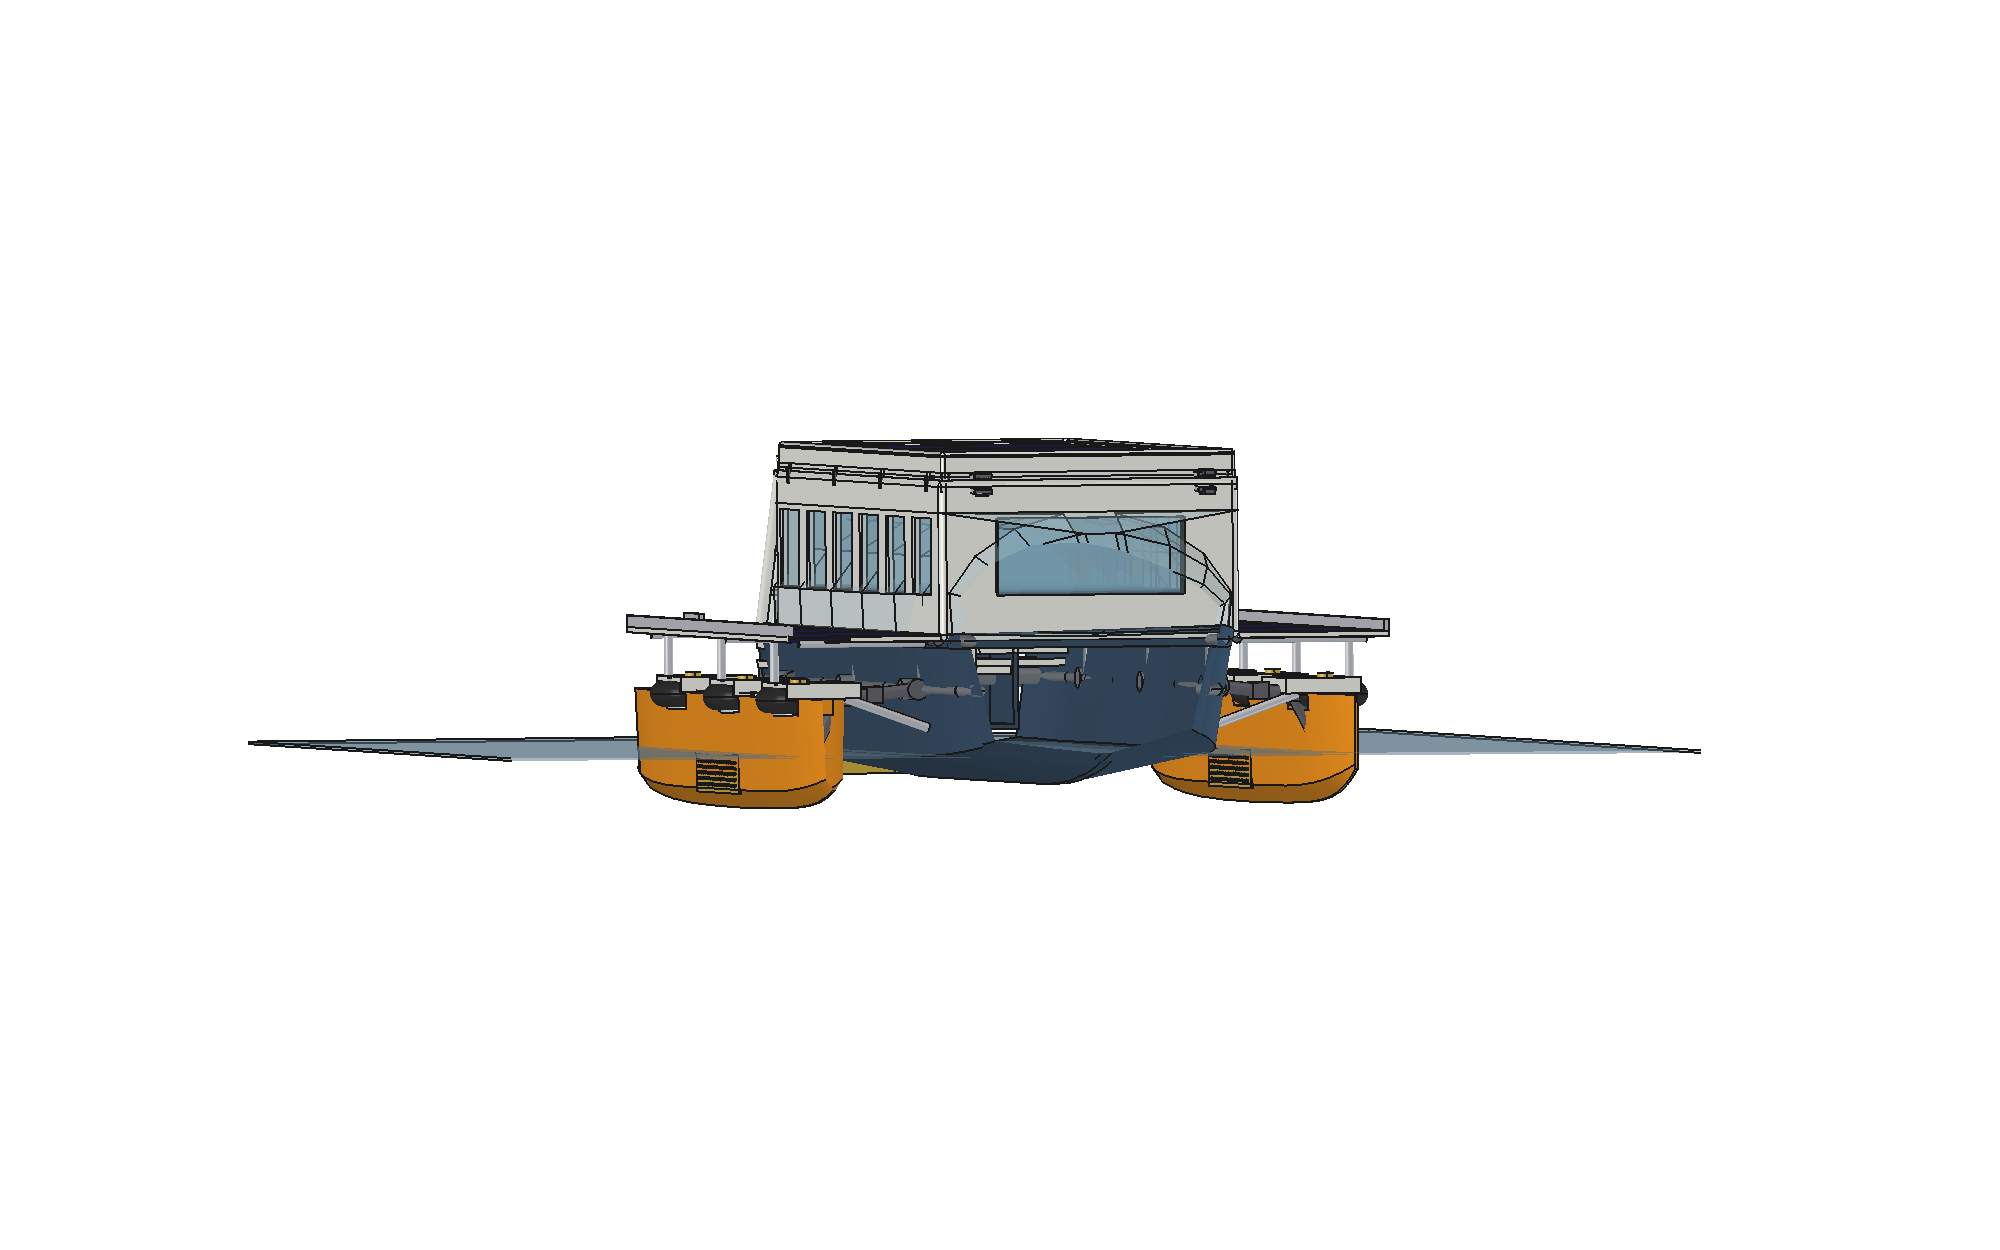
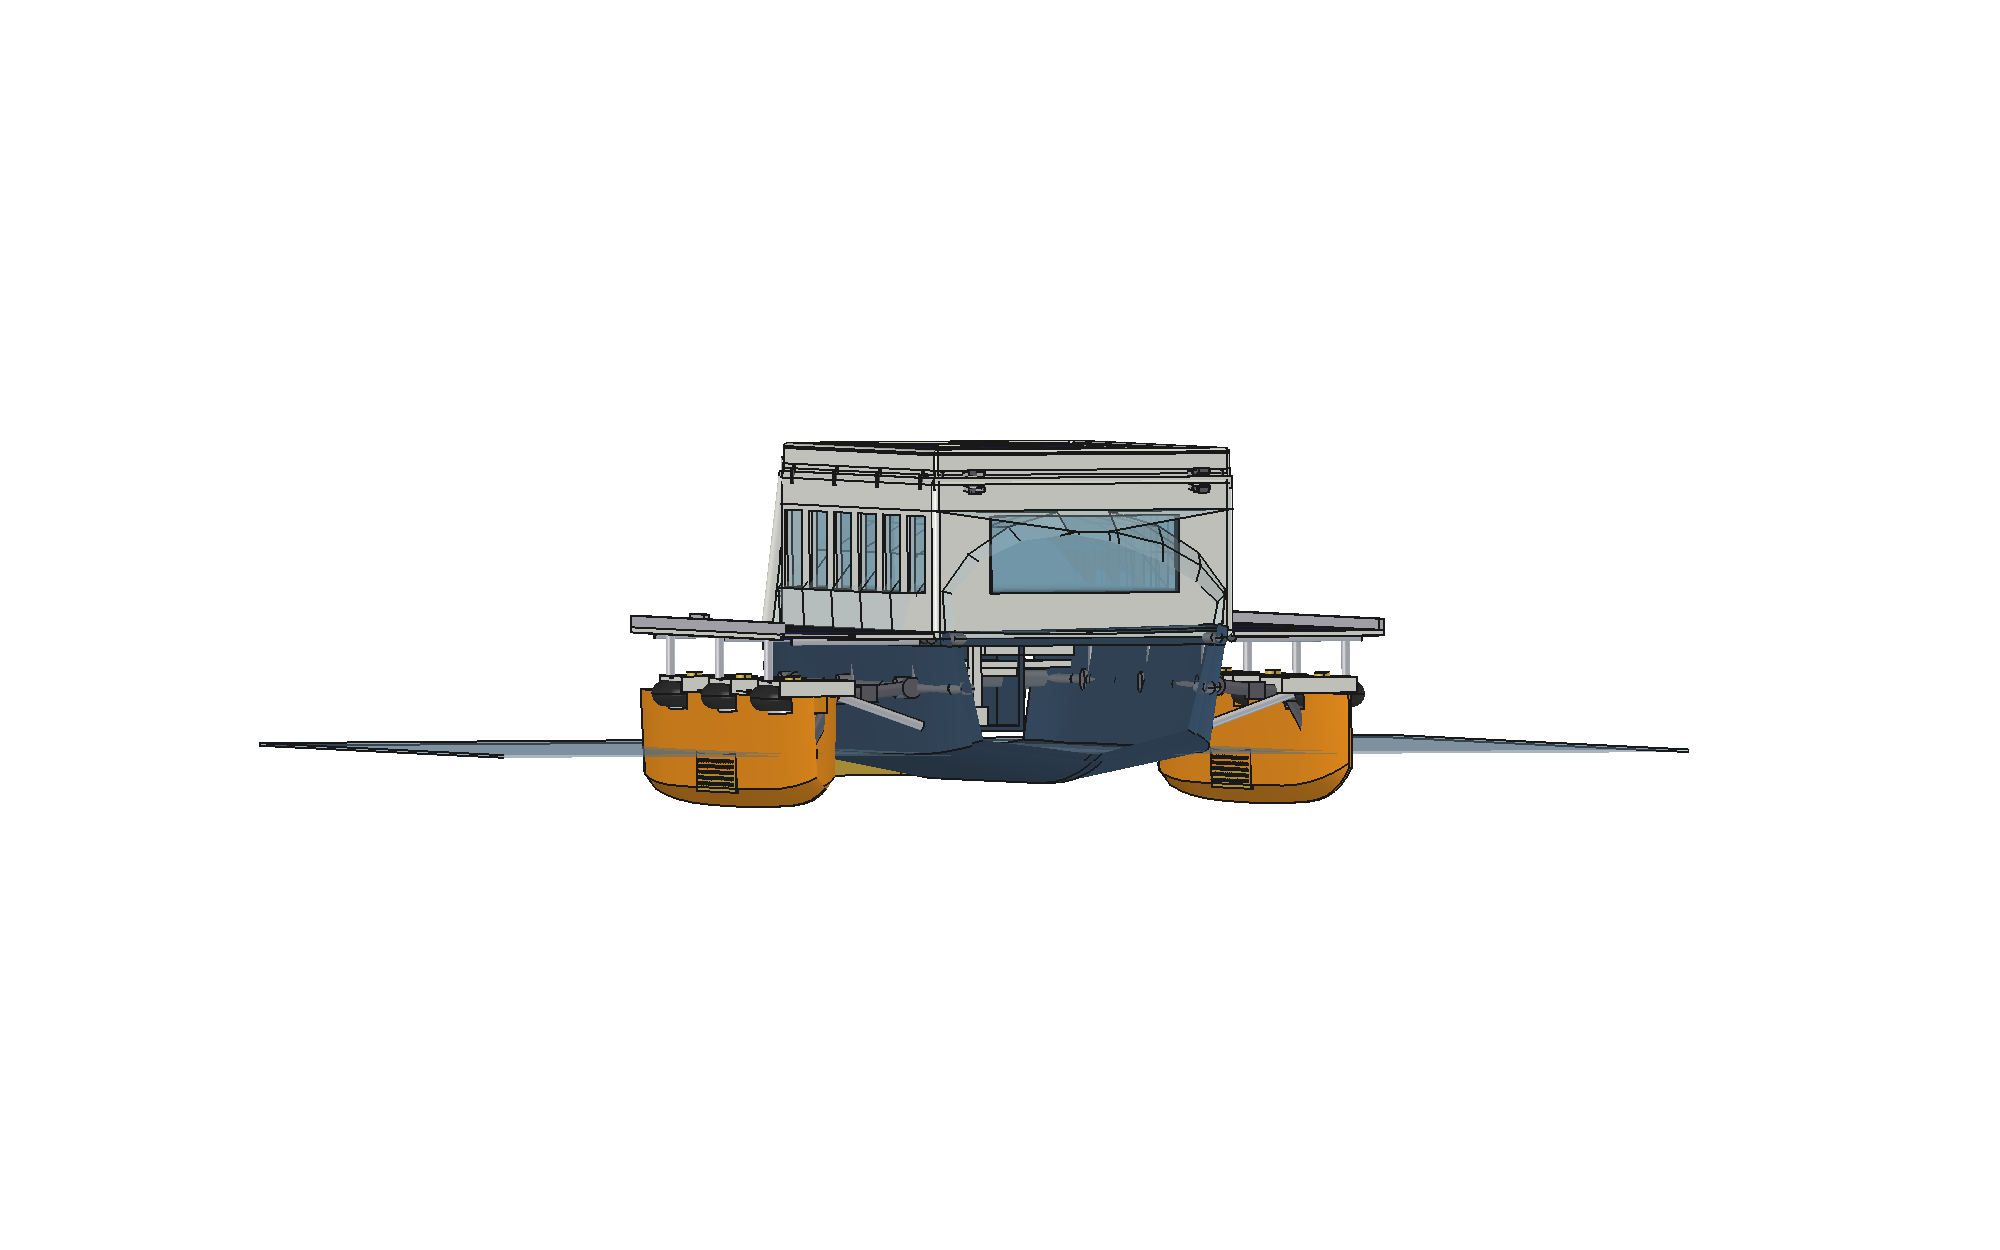
Move the winch onto the centreline with the anchor
An off-centre winch pulls with a yaw bias; on a slipway that fights the
wheels exactly when grip is already marginal. The drum now sits on a
stern-tie bracket at (-70, 0, 1310), athwartships, directly above the
anchor roller at (-140, 0, 1150), so the rode leads dead aft along the
keel line. Body sized 300 x 420 to clear the gantry legs at y +-950.

checks() asserts both fittings within 30 mm of the centreline, the drum
forward of the roller, and the body clear of the legs.

Changed region(s): [[0.155, 0.3432, 0.744, 0.6552], [0.744, 0.5928, 0.837, 0.624]]

diff --git a/freecad/params.py b/freecad/params.py
@@ -338,8 +338,14 @@ CP_NET = 1.5                       # EN 1991-1-4 free-standing canopy
 # point and the boat hauls itself out even with no wheel grip.
 # Anchor: stern roller on the gantry leg, rode to the same drum family.
 WINCH_PULL_KG = 2000          # 4500 lb class, 12/24 V
-WINCH_POS = (60, -880, 1265)    # hard aft, clear of the boarding gate
+# BOTH ON THE CENTERLINE (Max): an off-centre winch pulls the boat
+# with a yaw bias — on a slipway that fights the wheels and makes the
+# recovery harder. Drum athwartships on a stern-tie bracket, rode
+# leading aft and down over the anchor roller directly beneath it, so
+# the pull line is dead on the keel line.
+WINCH_POS = (-70, 0, 1310)
 ANCHOR_ROLLER = (-140, 0, 1150)
+WINCH_BODY = (300, 420, 230)  # x, y, z: fits between the gantry legs
 
 # ---- stern pod ----
 STERNPOD_DIA = 300
@@ -508,6 +514,16 @@ def checks(verbose=True):
     assert -cpl_x <= 2100, f"drawbar overhang aft {-cpl_x:.0f} too long"
     assert 60 <= tongue <= 130, f"tongue load {tongue:.0f} kg off-spec"
     assert sea_x < -300, "sea gantry not clear aft of the transom"
+    # winch + anchor on the keel line: an off-centre pull yaws the boat
+    # on a slipway and fights the wheels
+    assert abs(WINCH_POS[1]) <= 30, \
+        f"winch {WINCH_POS[1]} mm off centreline — biased ramp pull"
+    assert abs(ANCHOR_ROLLER[1]) <= 30, \
+        f"anchor roller {ANCHOR_ROLLER[1]} mm off centreline"
+    assert WINCH_POS[0] > ANCHOR_ROLLER[0], \
+        "rode must lead aft from the drum onto the roller"
+    assert WINCH_BODY[1] / 2 + 60 <= ARCH_PIVOT_Y, \
+        "winch body fouls the gantry legs"
     assert sea_z > WL_Z + 1200, "gantry too low to hang an anchor"
     assert 2 * ARCH_PIVOT_Y + ARCH_TUBE <= 2550, "stern arch wider than road"
     # aft entry

diff --git a/freecad/build_boat.py b/freecad/build_boat.py
@@ -895,13 +895,21 @@ def build_aft_entry(rail_up=False, door_open=False):
 
 def build_stern_gear():
     """Electric self-recovery winch + stern anchor on its roller."""
+    # winch and anchor share the centerline: the rode leaves the drum,
+    # runs aft and down over the anchor roller right beneath it, so a
+    # ramp recovery pulls straight along the keel line with no yaw
     wx, wy, wz = P.WINCH_POS
-    parts = [box(420, 260, 230, (wx - 210, wy - 130, wz - 115))]   # housing
-    parts.append(Part.makeCylinder(85, 300, Vector(wx, wy - 150, wz),
+    bl, bw, bh = P.WINCH_BODY
+    parts = [box(bl, bw, bh, (wx - bl / 2, wy - bw / 2, wz - bh / 2))]
+    parts.append(Part.makeCylinder(85, bw - 120,
+                                   Vector(wx, wy - (bw - 120) / 2, wz),
                                    Vector(0, 1, 0)))               # drum
-    parts.append(box(60, 300, 190, (wx - 260, wy - 150, wz - 95)))  # fairlead
-    parts.append(Part.makeCylinder(55, 120, Vector(wx - 300, wy - 60, wz),
-                                   Vector(0, 1, 0)))               # roller
+    # bracket down to the stern tie, and the chain stripper aft
+    for sy in (-1, 1):
+        parts.append(box(40, 30, 300,
+                         (wx - 20, sy * (bw / 2 - 30), wz - bh / 2 - 290)))
+    parts.append(box(50, 240, 150, (wx - bl / 2 - 50, wy - 120,
+                                    wz - bh / 2)))                 # stripper
     ax_, ay, az_ = P.ANCHOR_ROLLER
     parts.append(Part.makeCylinder(60, 200, Vector(ax_, ay - 100, az_),
                                    Vector(0, 1, 0)))               # bow roller

diff --git a/docs/structure.md b/docs/structure.md
@@ -115,18 +115,41 @@ asserted in `checks()` at 60–130 kg.
 
 ## 2b. Stern gear: winch and anchor
 
-- **Electric winch**, 2 t (4 500 lb) class, 12/24 V, mounted on the
-  stern tie with a fairlead through the transom. Purpose: **self-
-  recovery on slippery ramps**. Algae-covered concrete can drop tyre
-  friction to ~0.2, below the 0.18 needed for a 15 % ramp with no
-  margin; the winch takes a line to a ramp-top eye or the car and the
-  boat hauls itself out regardless of grip. Same drum also serves as a
-  kedge winch.
-- **Anchor** on a roller at the transom under the gantry sheave: shank
-  and plough stow against the roller, rode runs to the drum. Anchoring
-  from the stern suits this boat — the winter garden and the terrace
-  face forward, so lying stern-to the wind keeps the view and the
-  breeze where people sit.
+**Both sit on the centreline**, stacked: drum above, anchor roller
+directly beneath it. That is not cosmetic — an off-centre winch pulls
+the boat with a **yaw bias**, and on a slipway that bias fights the
+wheels and makes the recovery harder, exactly when grip is already
+marginal. On the keel line the pull, the hull and the wheelbase are all
+on the same axis, so the boat tracks straight up the ramp. It also
+keeps the anchor rode leading fair in any wind direction.
+
+```
+        gantry leg              gantry leg
+             ╲                     ╱
+              ╲   ▄▄▄▄▄▄▄▄▄▄▄   ╱     winch, drum athwartships
+               ╲  █  ▓drum▓  █ ╱       (-70, 0, 1310)
+   ═══transom═══╪══█▄▄▄▄▄▄▄▄█══╪══
+                     ║ rode
+                    (●)  anchor roller (-140, 0, 1150)
+                     ↓ straight aft — no yaw
+```
+
+- **Electric winch**, 2 t (4 500 lb) class, 12/24 V, on a bracket off
+  the stern tie, body 300 × 420 mm so it clears the gantry legs at
+  y ±950. Purpose: **self-recovery on slippery ramps**. Algae-covered
+  concrete can drop tyre friction to ~0.2, below the 0.18 needed for a
+  15 % ramp with no margin; the winch takes a line to a ramp-top eye or
+  the car and the boat hauls itself out regardless of grip. Same drum
+  also serves as a kedge winch.
+- **Anchor** on the roller under the gantry sheave: shank and plough
+  stow against the roller, rode runs up to the drum over a chain
+  stripper. Anchoring from the stern suits this boat — the winter
+  garden and the terrace face forward, so lying stern-to the wind keeps
+  the view and the breeze where people sit.
+
+`checks()` asserts both are within 30 mm of the centreline, that the
+drum is forward of the roller (so the rode leads aft), and that the
+winch body clears the gantry legs.
 
 ## 3. Bow: closed and faired
 
